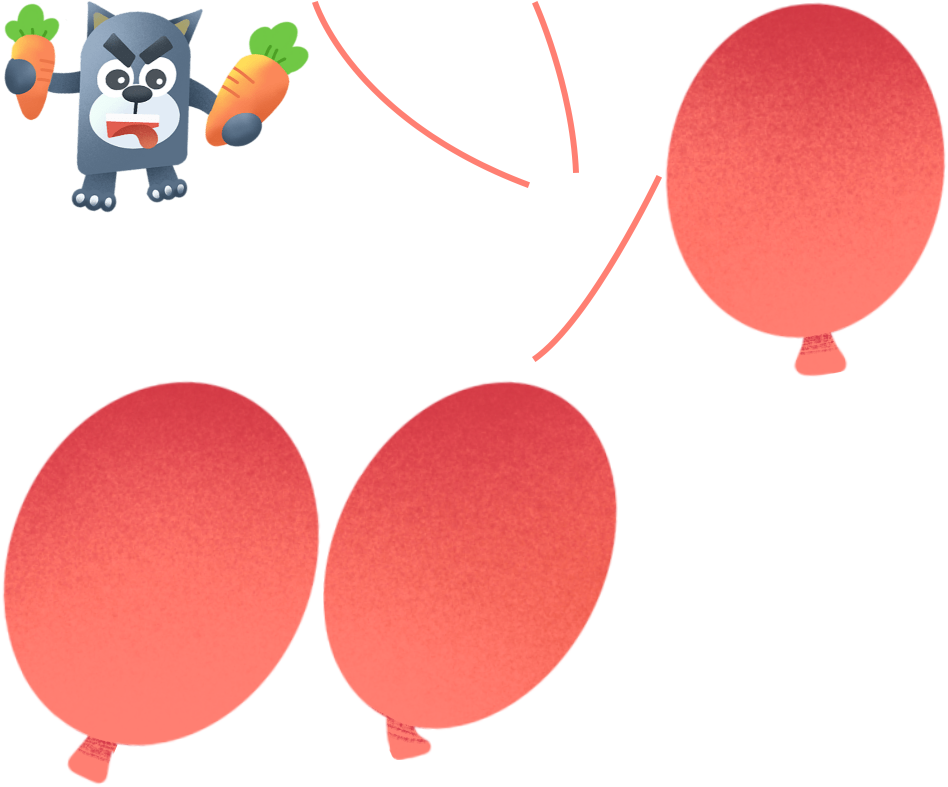
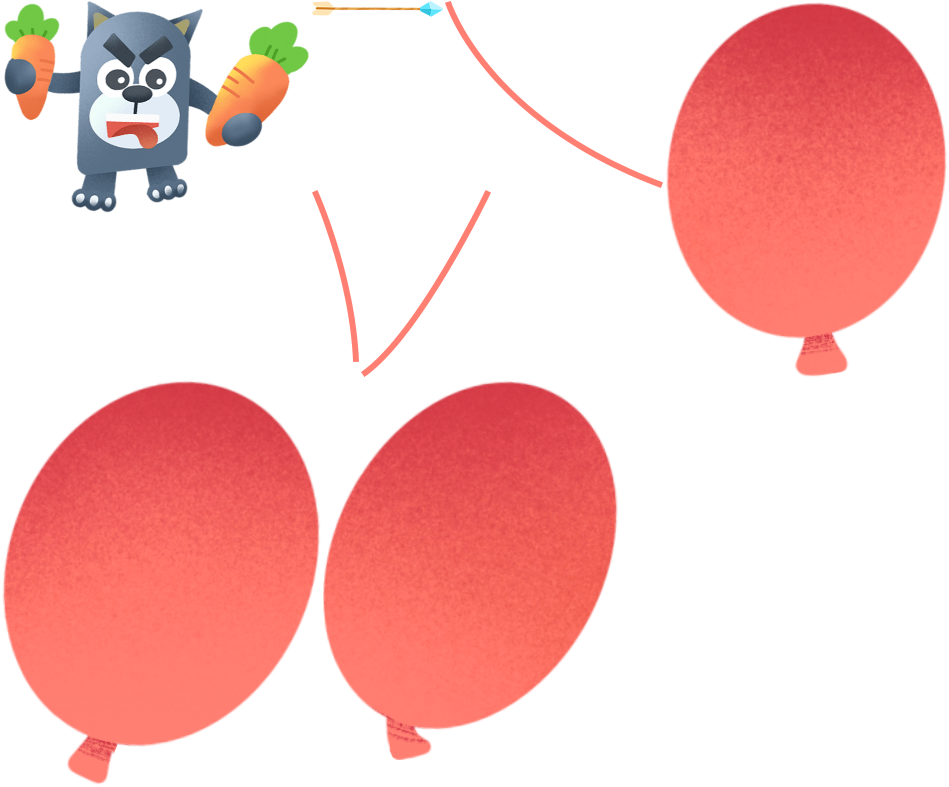
update

diff --git a/src/scenes/Game4/Play.ts b/src/scenes/Game4/Play.ts
@@ -5,6 +5,10 @@ export class Game4PlayScene extends Phaser.Scene {
     private lineSprites : Array<Phaser.GameObjects.Sprite> = []; //线集合
     private wolfObj : Phaser.GameObjects.Sprite ;  //大灰狼对象
     private textArr : Array<Phaser.GameObjects.Text> = []; //文字集合
+    private arrowObj : Phaser.Physics.Arcade.Sprite ; //箭头obj
+    private index : number = -1 ; // 音标索引
+    private clickLock : boolean = true; //点击锁
+    private shootLock : boolean = true; //射箭锁
     constructor() {
       super({
         key: "Game4PlayScene"
@@ -25,31 +29,127 @@ export class Game4PlayScene extends Phaser.Scene {
       //初始化渲染
       this.createBackgroundImage(); //背景图
       this.drawCivaAndWolf(); //渲染civa跟狼
+      this.createArrow();  //渲染箭头
       this.clickHandle(); //绑定点击事件
       this.createAnims(); //创建动画
       this.drawAnimsHandle(); //初始化动画
+      this.createCollide(); //创建碰撞检测
+    }
+
+    private createArrow () : void {
+      this.arrowObj = this.physics.add.sprite(this.civa.x + this.civa.width / 2,this.civa.y + this.civa.height / 2 + 60,'icons','jian.png').setOrigin(0.5).setAlpha(0);
+    }
+
+    private createCollide () : void {
+      this.physics.add.collider(this.arrowObj,this.ballonSprites,this.collideCb.bind(this));
+    }
+
+    private collideCb () : void {
+      this.colideHandle();  //碰撞事件触发
+      this.clickLock = true; 
+      this.shootLock = false;
+      this.createArrow();
+      this.createCollide();
+    }
+
+    private colideHandle () : void {
+      this.arrowObj.destroy();
+      this.ballonSprites[this.index].destroy();
+      this.ballonSprites[this.index] = null;
+      this.lineSprites[this.index].destroy();
+      this.lineSprites[this.index] = null;
+      this.textArr[this.index].destroy();
+      this.textArr[this.index] = null;
+    }
+
+    private getAngel (px : number,py : number,mx : number,my : number) : number {
+      let x : number = Math.abs(px - mx);
+      let y : number = Math.abs(py - my);
+      let z : number = Math.sqrt(Math.pow(x,2)+Math.pow(y,2));
+      let cos : number = y/z;
+      let radina : number = Math.acos(cos);//用反三角函数求弧度
+      let angle : number = Math.floor(180 / (Math.PI/radina));//将弧度转换成角度
+
+      if(mx>px && my>py){//鼠标在第四象限
+          angle = 180 - angle;
+      }
+
+      if(mx==px && my>py){//鼠标在y轴负方向上
+          angle = 180;
+      }
+
+      if(mx>px && my==py){//鼠标在x轴正方向上
+          angle = 90;
+      }
+
+      if(mx<px && my>py){//鼠标在第三象限
+          angle = 180 + angle;
+      }
+
+      if(mx<px && my==py){//鼠标在x轴负方向
+          angle = 270;
+      }
+
+      if(mx<px && my<py){//鼠标在第二象限
+          angle = 360 - angle;
+      }
+      return angle;
+    }
+
+    private setArrowAngle () : void { 
+      let angleNum : number = this.getAngel(this.civa.x + this.civa.width / 2,this.civa.y + this.civa.height / 2,this.ballonSprites[this.index].x,this.ballonSprites[this.index].y);
+      this.arrowObj.setAngle( angleNum + 270); 
     }
 
     private drawAnimsHandle () : void {
-      console.log(this);
       this.tweens.add({
         targets : [...this.ballonSprites,...this.lineSprites,...this.textArr,this.wolfObj],
         y : `-=${window.innerHeight}`,
         ease: 'Sine.easeInOut',
         duration : 1000,
+        onComplete : ()=>{
+          this.shootLock = false;
+          this.tweens.add({
+            targets : [...this.ballonSprites,...this.lineSprites,...this.textArr,this.wolfObj],
+            y : `+=20`,
+            ease: 'Sine.easeInOut',
+            duration : 1000,
+            yoyo : true,
+            repeat : -1
+          })
+        }
       })
     }
 
     private setWords () : void{
       //初始化单词音标
       this.words = ['/ a /','/ b /','/ c /','/ d /'];
-      this.words.length = 3;
+      this.words.length = 4;
+    }
+
+    private arrowEmitHandle () : void {
+      if(this.clickLock) return;
+      let currentItem : Phaser.Physics.Arcade.Sprite = this.ballonSprites[this.index];
+      this.arrowObj.setVelocity(currentItem.x + currentItem.width / 2 - 140, -(currentItem.y + currentItem.height / 2));
+      this.arrowObj.alpha = 1;
     }
 
     private clickHandle () : void {
       //点击场景触发
       this.input.on('pointerdown',(...args)=>{
+        if(this.shootLock) return;
+        this.shootLock = true;
+        if(++this.index >= this.words.length){
+          this.index = 0 ;
+        }
         this.civa.anims.play('shooting');
+        this.time.addEvent({
+          delay: 500,
+          callback : ()=>{
+            this.clickLock = false;
+          }
+        });
+        this.setArrowAngle();
       })
     }
 
@@ -69,8 +169,8 @@ export class Game4PlayScene extends Phaser.Scene {
       this.civa = this.add.sprite(0,window.innerHeight - (240 + window.innerHeight * 0.15),'shoot','civa0001.png').setOrigin(0);
       switch(this.words.length){
         case 2 :  
-          this.ballonSprites.push(this.physics.add.sprite(window.innerWidth / 2 - 20 , window.innerHeight / 2 - 150 + window.innerHeight, 'icons' , 'qiqiu01.png').setScale(.5).setDepth(100));
-          this.ballonSprites.push(this.physics.add.sprite(window.innerWidth / 2 + 140 , window.innerHeight / 2 - 150 + window.innerHeight, 'icons' , 'qiqiu02.png').setScale(.5).setDepth(100));
+          this.ballonSprites.push(this.physics.add.sprite(window.innerWidth / 2 - 20 , window.innerHeight / 2 - 150 + window.innerHeight, 'icons' , 'qiqiu01.png').setScale(.5).setDepth(100).setImmovable());
+          this.ballonSprites.push(this.physics.add.sprite(window.innerWidth / 2 + 140 , window.innerHeight / 2 - 150 + window.innerHeight, 'icons' , 'qiqiu02.png').setScale(.5).setDepth(100).setImmovable());
           this.lineSprites.push(this.add.sprite(this.ballonSprites[0].x - 20, this.ballonSprites[0].y,'icons','line02.png').setOrigin(0));
           this.lineSprites.push(this.add.sprite(this.ballonSprites[0].x + 48, this.ballonSprites[0].y,'icons','line03.png').setOrigin(0));
           this.wolfObj = this.add.sprite(window.innerWidth / 2 + 50 , window.innerHeight / 2  + 100 + window.innerHeight,'icons' , 'dahuilang.png');
@@ -85,14 +185,14 @@ export class Game4PlayScene extends Phaser.Scene {
           }
           break;
         case 3 :
-          this.ballonSprites.push(this.physics.add.sprite(window.innerWidth / 2 - 120 , window.innerHeight / 2 - 150 + window.innerHeight, 'icons' , 'qiqiu03.png').setScale(.5).setDepth(100).setAngle(-20));
-          this.ballonSprites.push(this.physics.add.sprite(window.innerWidth / 2 + 20, window.innerHeight / 2 - 150 + window.innerHeight, 'icons' , 'qiqiu01.png').setScale(.5).setDepth(100));
-          this.ballonSprites.push(this.physics.add.sprite(window.innerWidth / 2 + 180 , window.innerHeight / 2 - 150 + window.innerHeight, 'icons' , 'qiqiu02.png').setScale(.5).setDepth(100));
+          this.ballonSprites.push(this.physics.add.sprite(window.innerWidth / 2 - 120 , window.innerHeight / 2 - 150 + window.innerHeight, 'icons' , 'qiqiu03.png').setScale(.5).setDepth(100).setAngle(-20).setImmovable());
+          this.ballonSprites.push(this.physics.add.sprite(window.innerWidth / 2 + 20, window.innerHeight / 2 - 150 + window.innerHeight, 'icons' , 'qiqiu01.png').setScale(.5).setDepth(100).setImmovable());
+          this.ballonSprites.push(this.physics.add.sprite(window.innerWidth / 2 + 180 , window.innerHeight / 2 - 150 + window.innerHeight, 'icons' , 'qiqiu02.png').setScale(.5).setDepth(100).setImmovable());
           this.lineSprites.push(this.add.sprite(this.ballonSprites[1].x - 20, this.ballonSprites[1].y,'icons','line02.png').setOrigin(0));
           this.lineSprites.push(this.add.sprite(this.ballonSprites[1].x + 48, this.ballonSprites[1].y,'icons','line03.png').setOrigin(0));
           this.lineSprites.push(this.add.sprite(this.ballonSprites[1].x - 205, this.ballonSprites[1].y,'icons','line01.png').setOrigin(0));
           this.wolfObj = this.add.sprite(window.innerWidth / 2 + 50 , window.innerHeight / 2  + 100 + window.innerHeight,'icons' , 'dahuilang.png');
-          for(let i = 0 ; i < this.ballonSprites.length ; i ++ ){
+          for(let i : number = 0 ; i < this.ballonSprites.length ; i ++ ){
             let ballon = this.ballonSprites[i];
             this.textArr.push(this.add.text(ballon.x  , ballon.y , this.words[i] , {
               fontSize : 40,
@@ -103,6 +203,24 @@ export class Game4PlayScene extends Phaser.Scene {
           }
           break;
         case 4 :
+          this.ballonSprites.push(this.physics.add.sprite(window.innerWidth / 2 - 160 , window.innerHeight / 2 - 150 + window.innerHeight, 'icons' , 'qiqiu03.png').setScale(.5).setDepth(100).setAngle(-20).setImmovable());
+          this.ballonSprites.push(this.physics.add.sprite(window.innerWidth / 2 - 30, window.innerHeight / 2 - 150 + window.innerHeight, 'icons' , 'qiqiu01.png').setScale(.5).setDepth(100).setImmovable());
+          this.ballonSprites.push(this.physics.add.sprite(window.innerWidth / 2 + 110 , window.innerHeight / 2 - 150 + window.innerHeight, 'icons' , 'qiqiu02.png').setScale(.5).setDepth(100).setImmovable());
+          this.ballonSprites.push(this.physics.add.sprite(window.innerWidth / 2 + 250 , window.innerHeight / 2 - 150 + window.innerHeight, 'icons' , 'qiqiu02.png').setScale(.5).setDepth(100).setAngle(20).setImmovable());
+          this.lineSprites.push(this.add.sprite(this.ballonSprites[1].x - 200, this.ballonSprites[1].y,'icons','line01.png').setOrigin(0));
+          this.lineSprites.push(this.add.sprite(this.ballonSprites[1].x - 20, this.ballonSprites[1].y,'icons','line02.png').setOrigin(0));
+          this.lineSprites.push(this.add.sprite(this.ballonSprites[1].x + 28, this.ballonSprites[1].y,'icons','line03.png').setOrigin(0));
+          this.lineSprites.push(this.add.sprite(this.ballonSprites[1].x + 50, this.ballonSprites[1].y,'icons','line01.png').setOrigin(0).setFlip(true,false));
+          this.wolfObj = this.add.sprite(window.innerWidth / 2 + 50 , window.innerHeight / 2  + 100 + window.innerHeight,'icons' , 'dahuilang.png');
+          for(let i : number = 0 ; i < this.ballonSprites.length ; i ++ ){
+            let ballon = this.ballonSprites[i];
+            this.textArr.push(this.add.text(ballon.x  , ballon.y , this.words[i] , {
+              fontSize : 40,
+              font: 'bold 45px Arial Rounded MT',
+              fill : '#fff',
+              bold : true
+            }).setOrigin(0.5).setDepth(200));
+          }
           break;
         default :
           break;
@@ -114,6 +232,7 @@ export class Game4PlayScene extends Phaser.Scene {
     }
   
     update(time: number): void {
-      
+      this.arrowEmitHandle();
+      //this.arrowObj.angle += 0.1;
     }
   };
